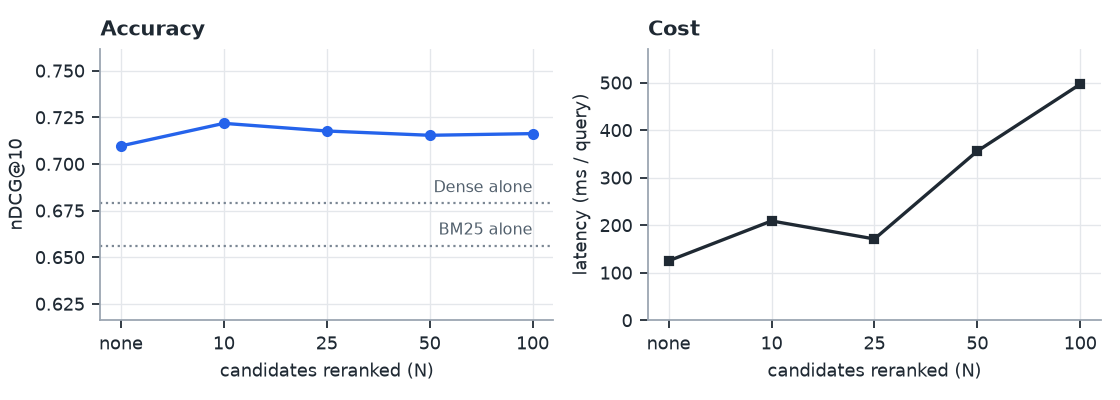
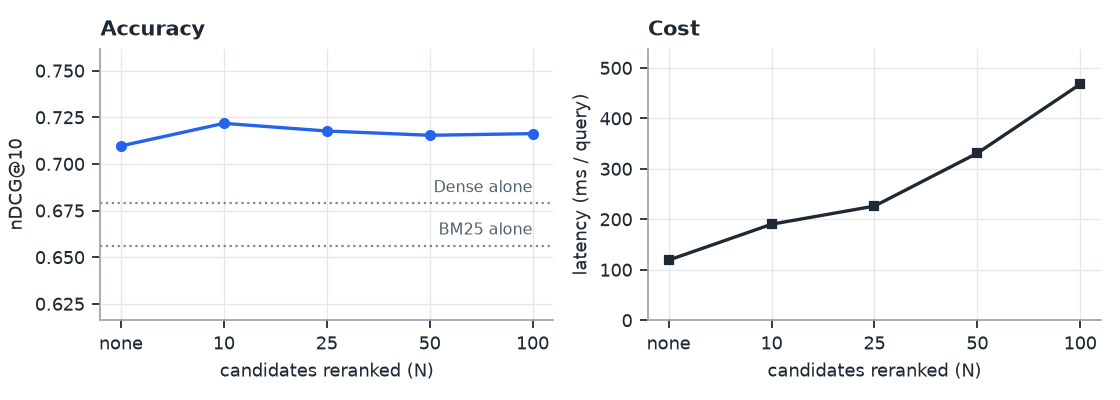
Use the re-timed latencies in the paper, figure, README and viva prep
ms/q in the ablation table is now 80/22/119/329 (BM25/dense/fusion/+rerank);
the dense retriever is the fastest stage, so it is the bold cell. Text,
cost ranges and the depth figure use the warm-up timings; the re-timing TODOs
are removed.

diff --git a/paper/main.tex b/paper/main.tex
@@ -295,9 +295,6 @@ run first, so loading the models is not counted as query time. Index
 construction is reported separately. On this machine the same run differed by up
 to a factor of two in latency between repetitions, so we treat latency as
 approximate and compare it only across orders of magnitude.
-% TODO: the main-run latencies in the ablation table (tab:ablation) were measured
-% before the warm-up query was added. Re-run the main ablation before the final version so all timings
-% follow this protocol.
 
 \paragraph{Metrics.} Each passage ranking is first converted to a document
 ranking (Section~\ref{sec:method}). Recall@$k$ is the fraction of a claim's
@@ -357,14 +354,14 @@ top 100 passages; ms/q is approximate.}
 \toprule
 Variant & nDCG@10 & R@10 & R@100 & MRR@10 & ms/q \\
 \midrule
-BM25            & 0.656 & 0.784 & 0.882 & 0.623 & \textbf{62} \\
-Dense           & 0.679 & 0.815 & 0.916 & 0.641 & 85 \\
-RRF fusion      & 0.710 & \textbf{0.833} & \textbf{0.947} & 0.675 & 125 \\
-\; $+$ reranking & \textbf{0.715} & \textbf{0.833} & \textbf{0.947} & \textbf{0.685} & 395 \\
+BM25            & 0.656 & 0.784 & 0.882 & 0.623 & 80 \\
+Dense           & 0.679 & 0.815 & 0.916 & 0.641 & \textbf{22} \\
+RRF fusion      & 0.710 & \textbf{0.833} & \textbf{0.947} & 0.675 & 119 \\
+\; $+$ reranking & \textbf{0.715} & \textbf{0.833} & \textbf{0.947} & \textbf{0.685} & 329 \\
 \bottomrule
 \end{tabular}
-% Numbers: results/ablation.csv (main run, 2026-09-28), off-the-shelf all-MiniLM-L6-v2.
-% TODO: re-time the main run after the warm-up fix and update the ms/q column.
+% Numbers: results/ablation.csv, off-the-shelf all-MiniLM-L6-v2. Accuracy from the run of
+% 2026-09-28; ms/q from the identical re-run of 2026-10-01 with the warm-up query.
 \end{table}
 
 \begin{figure}[t]
@@ -399,7 +396,7 @@ the recall within the top 100 passages from 0.882 (BM25) and 0.916 (dense) to
 Reranking the top 50 fused passages with the cross-encoder adds $+0.006$, which
 is not significant ($p=0.65$): the reranker improves 52 claims and worsens 46.
 Its largest change is at the first position (Recall@1 rises from 0.561 to
-0.577), but it triples the latency per claim (about 395 against 125~ms). In the
+0.577), but it almost triples the latency per claim (about 329 against 119~ms). In the
 main configuration, therefore, the stage that earns its place is fusion, not
 reranking.
 
@@ -418,7 +415,7 @@ $N=10$ to $N=100$ while latency grows with $N$.}
 Fig.~\ref{fig:latency} varies the number $N$ of fused passages that the
 cross-encoder rescores. Accuracy is flat: nDCG@10 stays between 0.716 and 0.722
 for $N$ from 10 to 100, against 0.710 without reranking, while latency grows
-from about 125~ms without reranking to about 500~ms at $N=100$. Scoring more
+from about 120~ms without reranking to about 470~ms at $N=100$. Scoring more
 candidates therefore buys cost, not accuracy. Fusion is equally insensitive to
 its constant: for $k\in\{10,30,60,100\}$, nDCG@10 lies between 0.709 and 0.714,
 so the fusion gain is not an artefact of the default $k=60$. Replacing RRF with
@@ -554,9 +551,9 @@ index over the 21{,}015 passages took 18 to 41~s with a pure-Python
 implementation. Encoding the passages took 53 to 130~s with MiniLM and 241~s
 with the twelve-layer BGE-small; either index occupies 32.3~MB (21{,}015 vectors
 of 384 dimensions), against 8.0~MB for whole abstracts. Per claim, BM25 took
-about 60 to 120~ms because it scores every passage, dense retrieval 16 to 85~ms,
+about 60 to 120~ms because it scores every passage, dense retrieval 16 to 32~ms,
 fusion roughly the sum of the two, and reranking 50 candidates added about 160
-to 270~ms with the MS~MARCO cross-encoder and about 1.2~s with the BGE reranker.
+to 260~ms with the MS~MARCO cross-encoder and about 1.2~s with the BGE reranker.
 Fine-tuning is a one-off cost of about ten minutes on the GPU, including an
 evaluation on the development claims after every epoch.
 

diff --git a/docs/VIVA_PREP.md b/docs/VIVA_PREP.md
@@ -110,10 +110,11 @@ variants. Say the non-significant ones first — it reads as rigour, not weaknes
 - full system vs BM25: +0.059, p = 0.0002; vs dense: +0.037, p = 0.025 — significant.
 
 **What is the latency cost and would you deploy this?**
-About 62 ms/query for BM25, 85 for dense, 125 for fusion, 395 with reranking at depth 50,
-so reranking adds roughly 270 ms. These are single-laptop numbers and varied up to about
+About 80 ms/query for BM25, 22 for dense, 119 for fusion, 329 with reranking at depth 50,
+so reranking adds roughly 210 ms. (BM25 is the slow retriever because the library scores
+every passage in pure Python; the dense search is one encoder pass plus a matrix product.) These are single-laptop numbers and varied up to about
 2x between identical runs, so I quote them as approximate. Would I deploy the reranker
-here? No: on this data it triples the latency for a gain that is not significant, and
+here? No: on this data it almost triples the latency for a gain that is not significant, and
 accuracy is flat from depth 10 to 100 (0.716-0.722). I would deploy fusion, and only add a
 reranker trained on scientific text.
 
@@ -216,5 +217,5 @@ defend is worse than code you do not have.
 - Print the paper and one page with the ablation table on it. Bring both.
 - Know your headline numbers cold. Zero-shot pipeline: full system 0.715 nDCG@10; fusion
   gives +0.031 over dense (p = 0.019) and +0.053 over BM25 (p < 0.0001); the reranker adds
-  about +270 ms/query for a gain over fusion that is not significant (p = 0.65).
+  about +210 ms/query for a gain over fusion that is not significant (p = 0.65).
   Fine-tuned: dense 0.679 → 0.742 (p < 0.0001), the best result, at no extra query cost.

diff --git a/CLAUDE.md b/CLAUDE.md
@@ -217,7 +217,7 @@ plus RAG/FiD and attribution (ALCE). **Three research gaps** this project addres
   Story for the paper: fusion helps when retrievers are of similar strength (MiniLM) and not
   when one dominates (BGE); two rerankers both add nothing. Best single number: 0.723.
   Code: `--set` takes string settings literally; `run_variant` runs an untimed warm-up query
-  (earlier latencies include model loading: re-time the main run before final numbers);
+  (main run re-timed on 2026-10-01: dense 22 ms, not 85; paper/README updated);
   `demo.py` accepts `--set`. 33 tests pass. Vivansh says only a few days remain before the
   presentation: prioritise paper, slides, failure analysis over further experiments.
 - **2026-09-30 (night), fine-tuning:** `scripts/finetune_dense.py` (explicit contrastive training

diff --git a/README.md b/README.md
@@ -68,10 +68,10 @@ is approximate: it varied up to about 2x between identical runs.
 
 | Variant | nDCG@10 | Recall@10 | MRR@10 | ms/query |
 |---|---|---|---|---|
-| BM25 | 0.656 | 0.784 | 0.623 | 62 |
-| Dense (all-MiniLM-L6-v2) | 0.679 | 0.815 | 0.641 | 85 |
-| RRF fusion | 0.710 | 0.833 | 0.675 | 125 |
-| + cross-encoder rerank | 0.715 | 0.833 | 0.685 | 395 |
+| BM25 | 0.656 | 0.784 | 0.623 | 80 |
+| Dense (all-MiniLM-L6-v2) | 0.679 | 0.815 | 0.641 | 22 |
+| RRF fusion | 0.710 | 0.833 | 0.675 | 119 |
+| + cross-encoder rerank | 0.715 | 0.833 | 0.685 | 329 |
 
 Paired bootstrap on nDCG@10 (10,000 resamples, `results/significance.json`):
 
